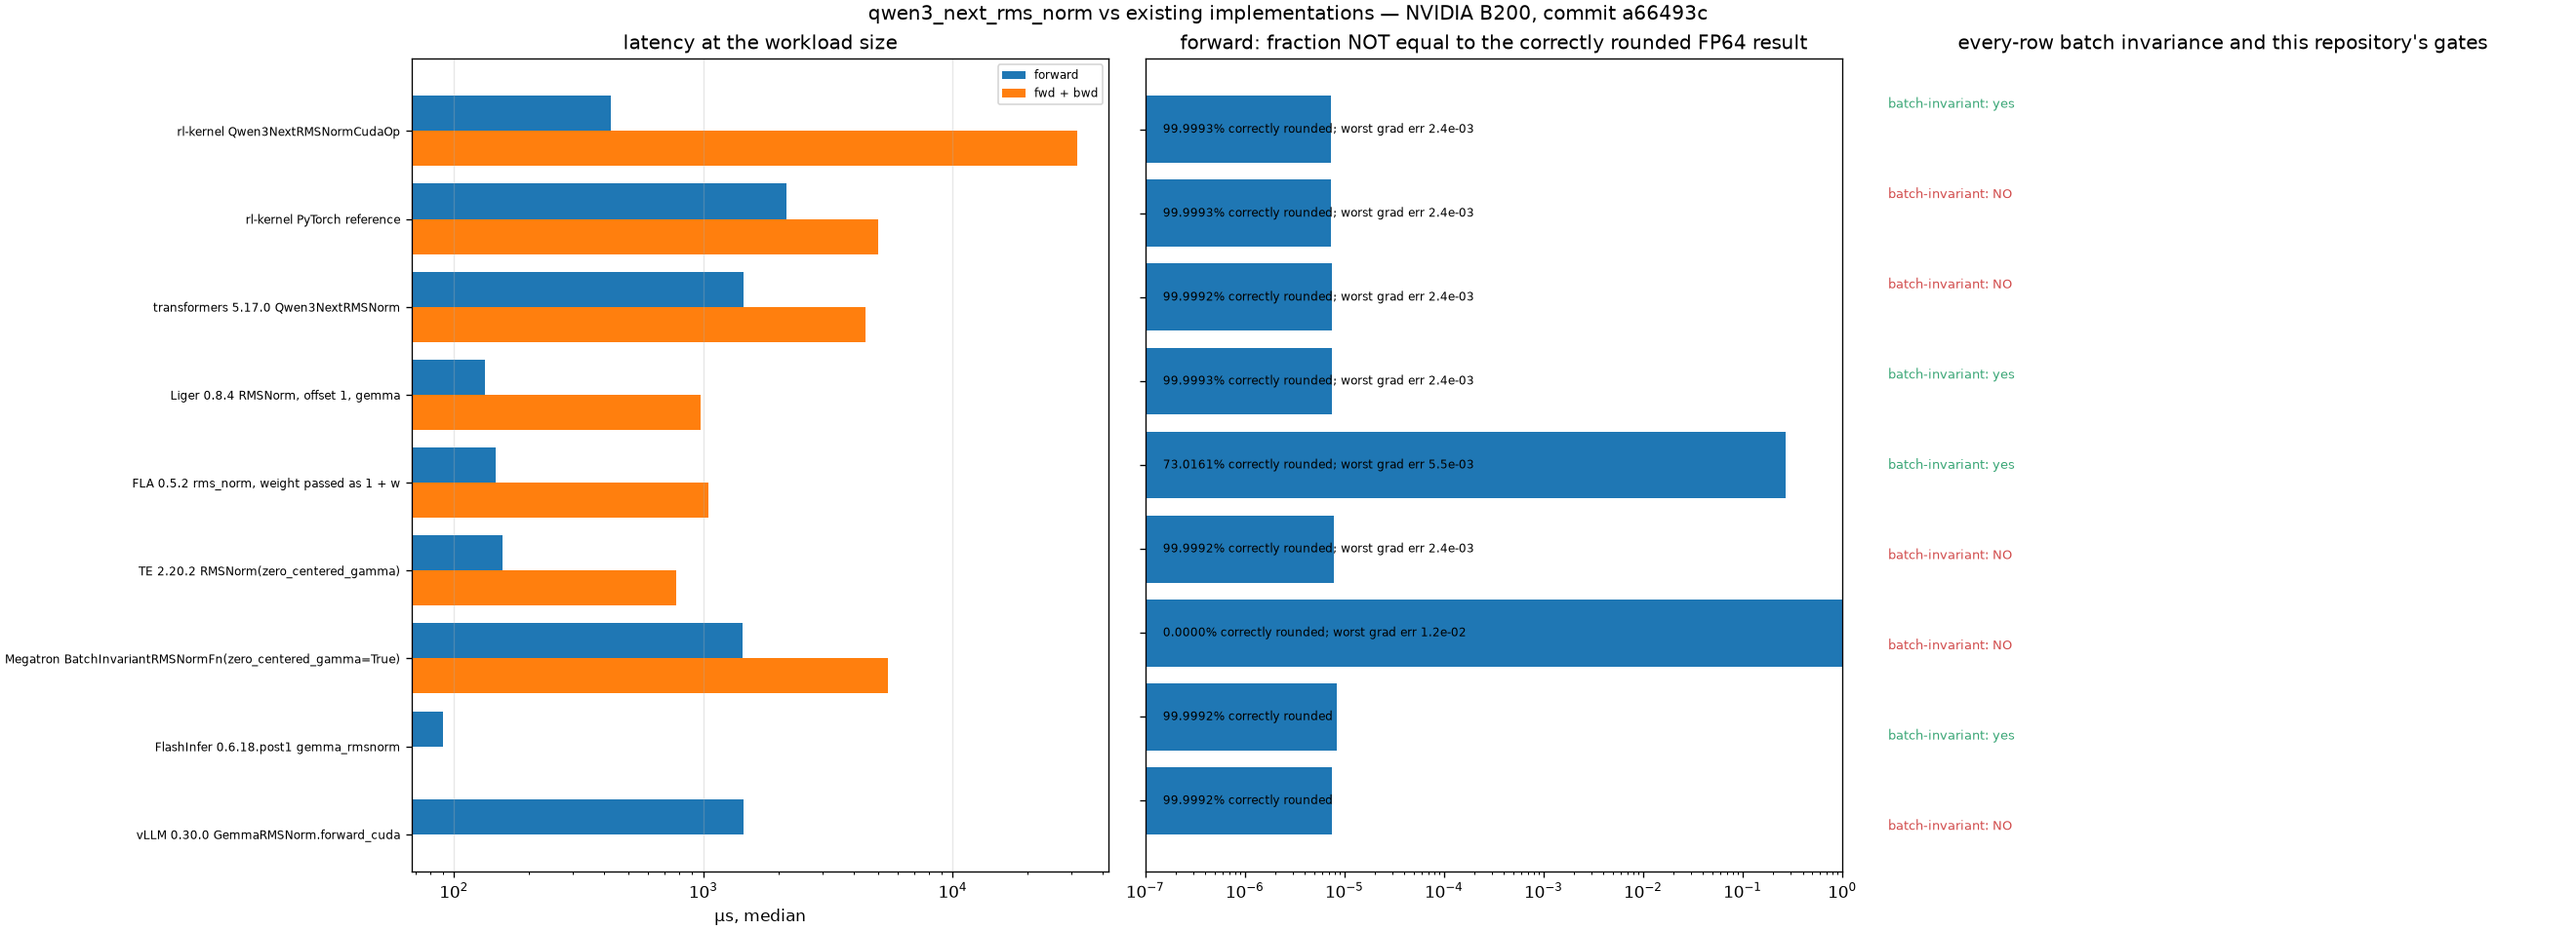
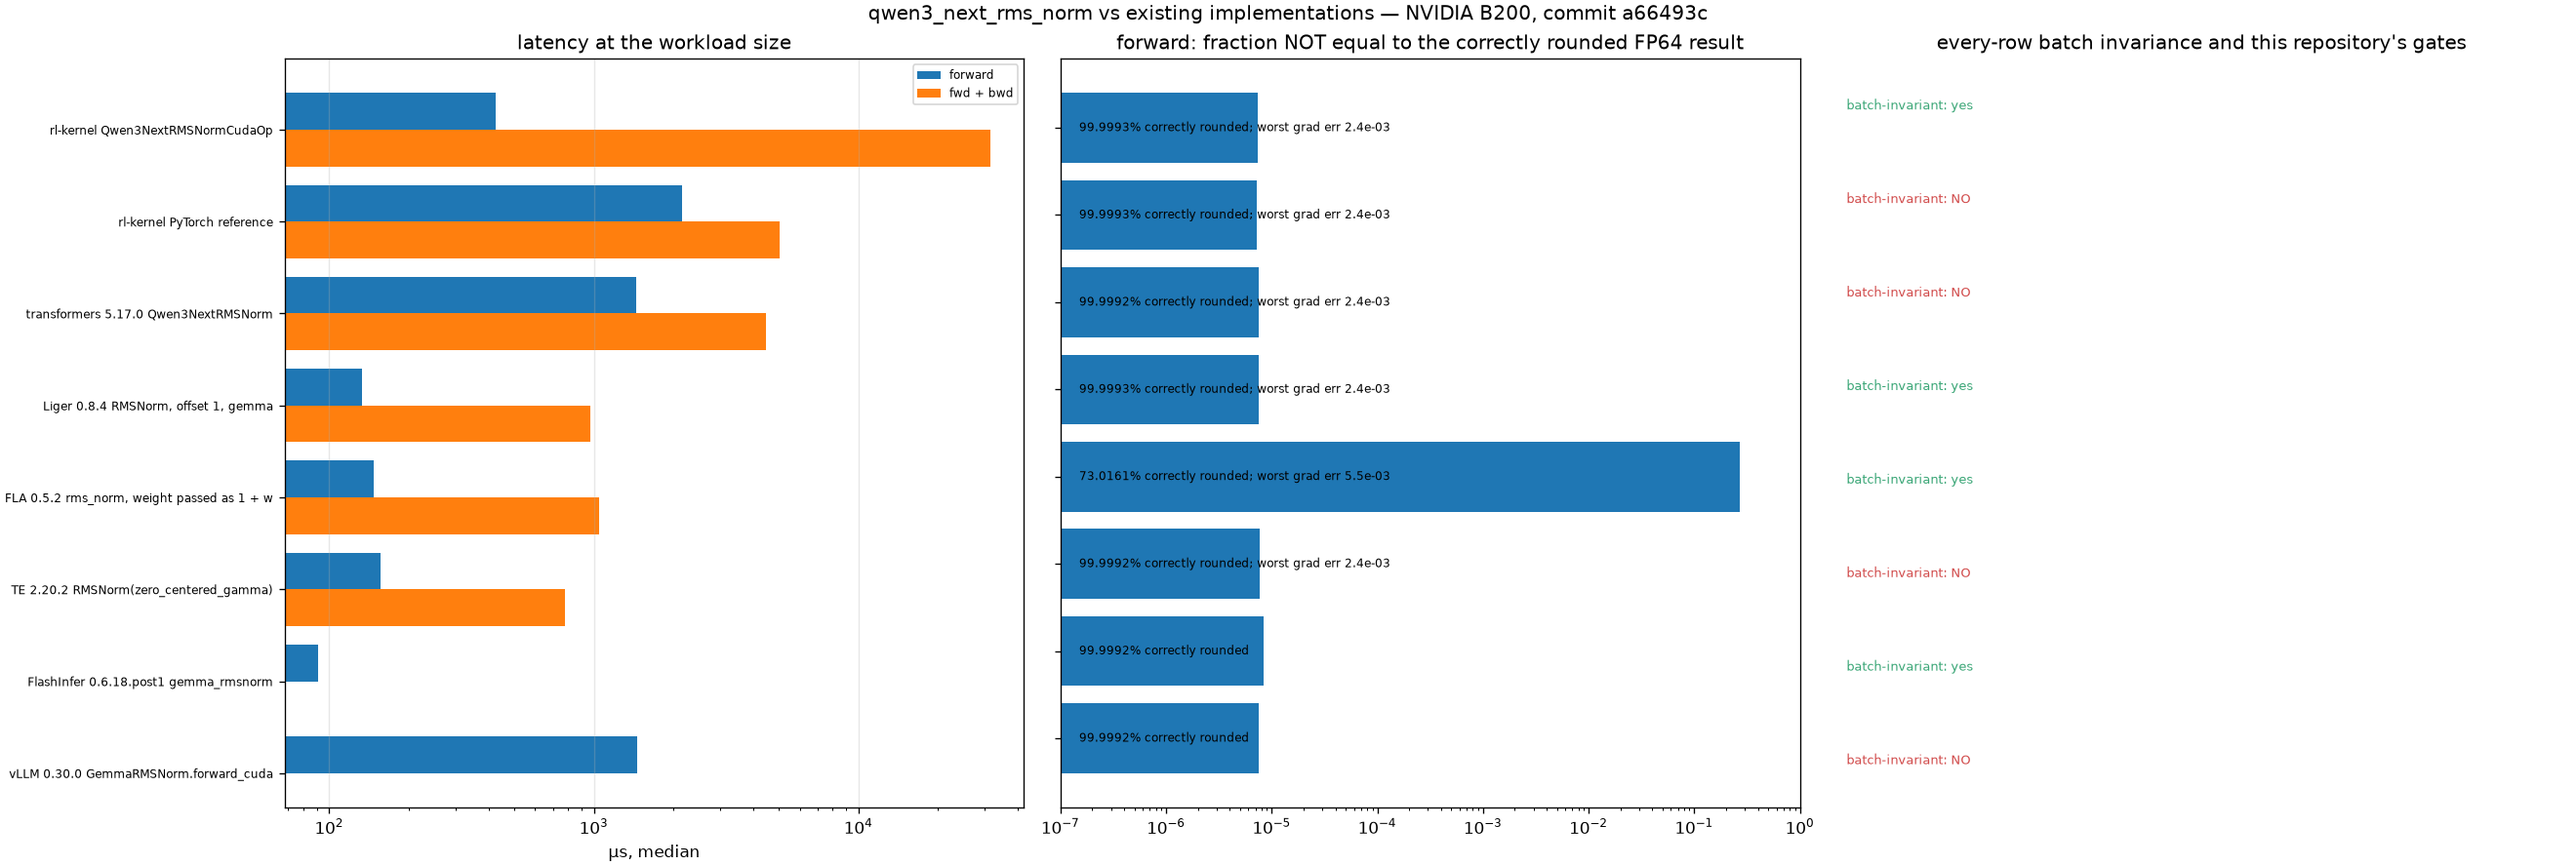
fix: exclude invalid Megatron zero-centered norm evidence

diff --git a/tests/test_qwen3_next_norm_reuse_check.py b/tests/test_qwen3_next_norm_reuse_check.py
@@ -1,0 +1,49 @@
+# SPDX-License-Identifier: Apache-2.0
+# Copyright (c) 2026 RL-Kernel Contributors
+
+"""Keep providers with incompatible weight semantics out of norm evidence."""
+
+import sys
+import types
+
+import pytest
+import torch
+
+from scripts import qwen3_next_norm_reuse_check as reuse
+
+
+@pytest.mark.parametrize("dtype", [torch.float32, torch.bfloat16, torch.float16])
+@pytest.mark.parametrize("uses_effective_weight", [False, True])
+def test_megatron_zero_centered_admission(monkeypatch, dtype, uses_effective_weight):
+    """Reject the 52fbcbc forward behavior while admitting a corrected provider."""
+    module = types.ModuleType("megatron.core.transformer.custom_layers.batch_invariant_kernels")
+
+    class BatchInvariantRMSNormFn:
+        @staticmethod
+        def apply(x, weight, eps, zero_centered_gamma):
+            weight_eff = weight + 1.0 if zero_centered_gamma else weight
+            scale = weight_eff if uses_effective_weight else weight
+            normalized = x.float() * torch.rsqrt(x.float().square().mean(-1, keepdim=True) + eps)
+            return (normalized * scale.float()).to(x.dtype)
+
+    module.BatchInvariantRMSNormFn = BatchInvariantRMSNormFn
+    monkeypatch.setitem(sys.modules, module.__name__, module)
+    monkeypatch.setattr(reuse, "DEV", "cpu")
+    monkeypatch.setattr(reuse, "DT", dtype)
+    factory = dict(reuse._c1_candidates(32))["megatron"]
+    monkeypatch.setattr(reuse, "_c1_candidates", lambda hidden: [("megatron", factory)])
+
+    candidate = reuse.candidates("qwen3_next_rms_norm")["megatron"]
+    if not uses_effective_weight:
+        assert "failed the zero-weight probe" in candidate["unavailable"]
+        assert "fn" not in candidate
+        return
+
+    assert candidate["backward"] == "full"
+    x = torch.ones(2, 32, dtype=dtype, requires_grad=True)
+    weight = torch.zeros(32, dtype=dtype, requires_grad=True)
+    output = candidate["fn"](x, weight)
+    assert torch.all(output != 0)
+    output.sum().backward()
+    assert x.grad is not None
+    assert weight.grad is not None

diff --git a/scripts/qwen3_next_norm_reuse_check.py b/scripts/qwen3_next_norm_reuse_check.py
@@ -139,6 +139,17 @@ def _c1_candidates(hidden: int) -> list[tuple[str, Any]]:
         def fn(x, w):
             return BatchInvariantRMSNormFn.apply(x, w, EPS, True)
 
+        # Some revisions accept the flag but still multiply by the uncentered weight.
+        with torch.no_grad():
+            probe_x = torch.ones(2, hidden, device=DEV, dtype=DT)
+            probe_w = torch.zeros(hidden, device=DEV, dtype=DT)
+            expected = (probe_x.float() * (1.0 + EPS) ** -0.5).to(DT)
+            if not torch.allclose(fn(probe_x, probe_w), expected):
+                raise RuntimeError(
+                    "Megatron zero_centered_gamma=True failed the zero-weight probe; "
+                    "excluded from the zero-centered comparison"
+                )
+
         return "Megatron BatchInvariantRMSNormFn(zero_centered_gamma=True)", fn, "full"
 
     def flashinfer():

diff --git a/docs/operators/qwen3-next-rms-norm.md b/docs/operators/qwen3-next-rms-norm.md
@@ -43,8 +43,8 @@ y = rmsnorm_cuda(x, weight, eps=1e-6, weight_offset=1.0)
 
 | Argument | Shape | Dtype | Requirements |
 | --- | --- | --- | --- |
-| `x` | `[..., H]` | fp32 / bf16 / fp16 | CUDA path requires contiguous |
-| `weight` | `[H]` | matches `x` | zero-centred (upstream inits to zeros) |
+| `x` | `[..., H]` | fp32 / bf16 / fp16 | CUDA wrapper copies non-contiguous inputs; low-level `rmsnorm_cuda` requires contiguous inputs |
+| `weight` | `[H]` | matches `x` | zero-centred (upstream inits to zeros); CUDA wrapper copies non-contiguous weights; low-level `rmsnorm_cuda` requires contiguous weights |
 | `eps` | scalar | float | inside the sqrt; `1e-6` for Qwen3-Next |
 
 ## Dispatch Behavior
@@ -138,7 +138,6 @@ BF16.
 | Liger 0.8.4 RMSNorm, offset 1, gemma | yes | 99.9993% | 2.4e-03 | 133 / 974 µs | not on this branch |
 | FLA 0.5.2 rms_norm, weight passed as 1 + w | yes | 73.0161% | 5.5e-03 | 147 / 1051 µs | not on this branch |
 | TE 2.20.2 RMSNorm(zero_centered_gamma) | **no** (175 rows, 245 sub-batches) | 99.9992% | 2.4e-03 | 156 / 779 µs | — |
-| Megatron BatchInvariantRMSNormFn(zero_centered_gamma=True) | **no** (47 rows, 62 sub-batches, 92 sweep cases) | 0.0000% | 1.2e-02 | 1439 / 5507 µs | not on this branch |
 | FlashInfer 0.6.18.post1 gemma_rmsnorm | yes | 99.9992% | — | 91 / — µs | — |
 | vLLM 0.30.0 GemmaRMSNorm.forward_cuda | **no** (16 rows, 26 sub-batches) | 99.9992% | — | 1454 / — µs | — |
 
@@ -150,7 +149,15 @@ idle B200. The C3/C4 column runs this repository's own gate scripts unchanged, w
 candidate replaced by a subclass of this op whose forward and backward call the other library.
 The subclass keeps this op's FP32 `dweight` row contributions, so singleton-aggregate compares
 like with like. The gate scripts for this op arrive with #468 (`qwen3_next_norm_manifest.json`); its gate results are in #468's copy of this page. [`qwen3_next_rms_norm.json`](../usage/evidence/qwen3-next-norm-reuse-b200/qwen3_next_rms_norm.json)
-was written from a clean tree at `a66493c` by
+was originally written from a clean tree at `a66493c` by the command below. The
+Megatron `52fbcbc` result has been excluded from the report, table and figure:
+that revision computes `weight_eff` but uses the original `weight` in its forward
+output, so it does not implement the zero-centred operation despite accepting the
+flag. The remaining measurements are unchanged; the figure was regenerated from
+the corrected report without rerunning benchmarks. The reuse checker now rejects
+Megatron implementations that fail a zero-weight probe before benchmarking them.
+
+Original command:
 
 ```bash
 python scripts/qwen3_next_norm_reuse_check.py --op qwen3_next_rms_norm \
